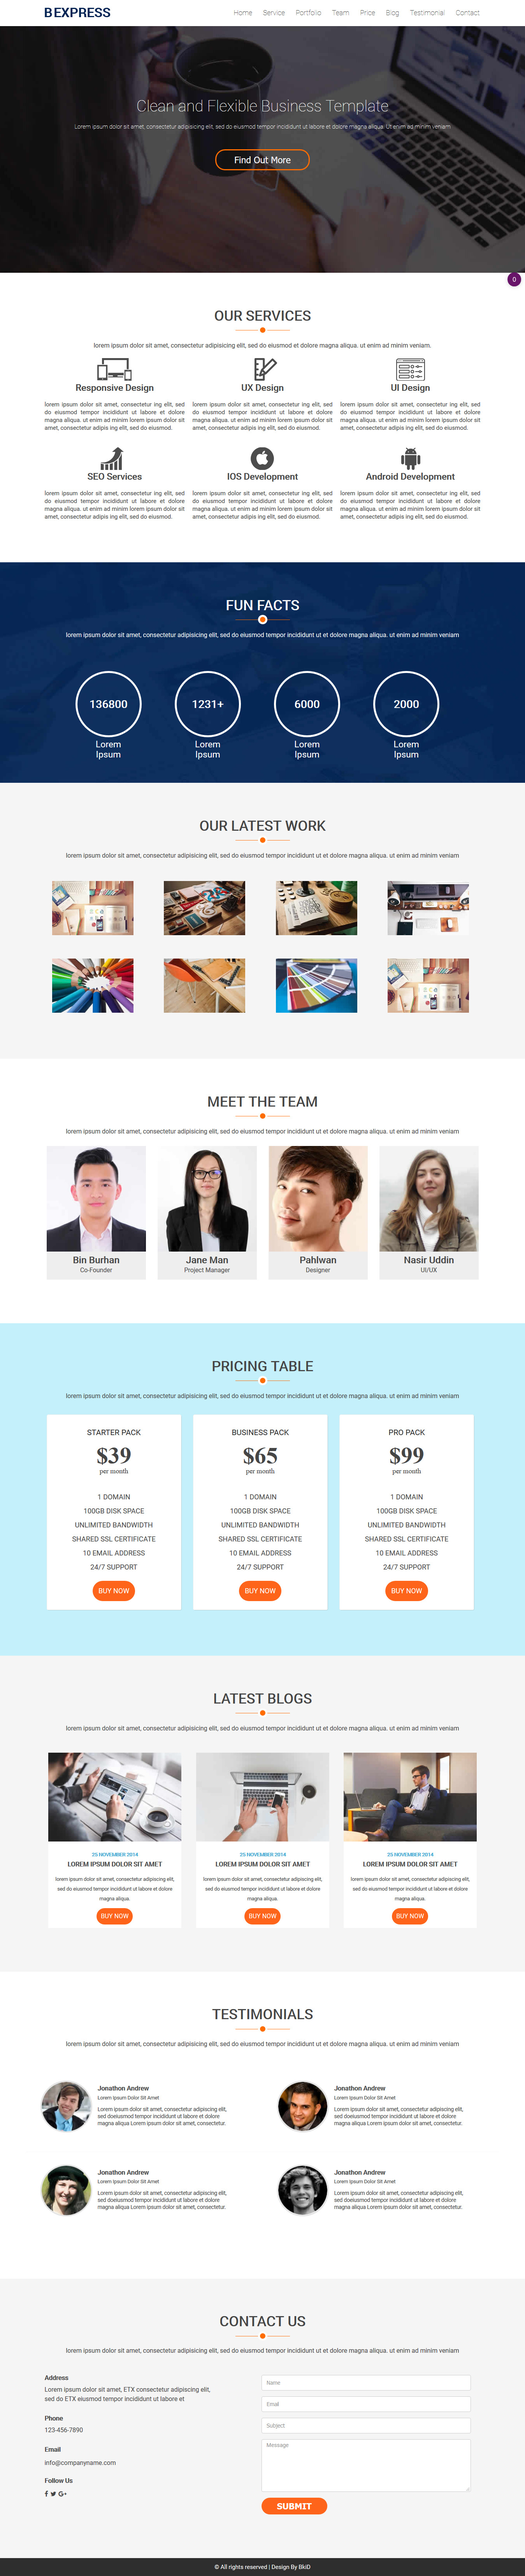
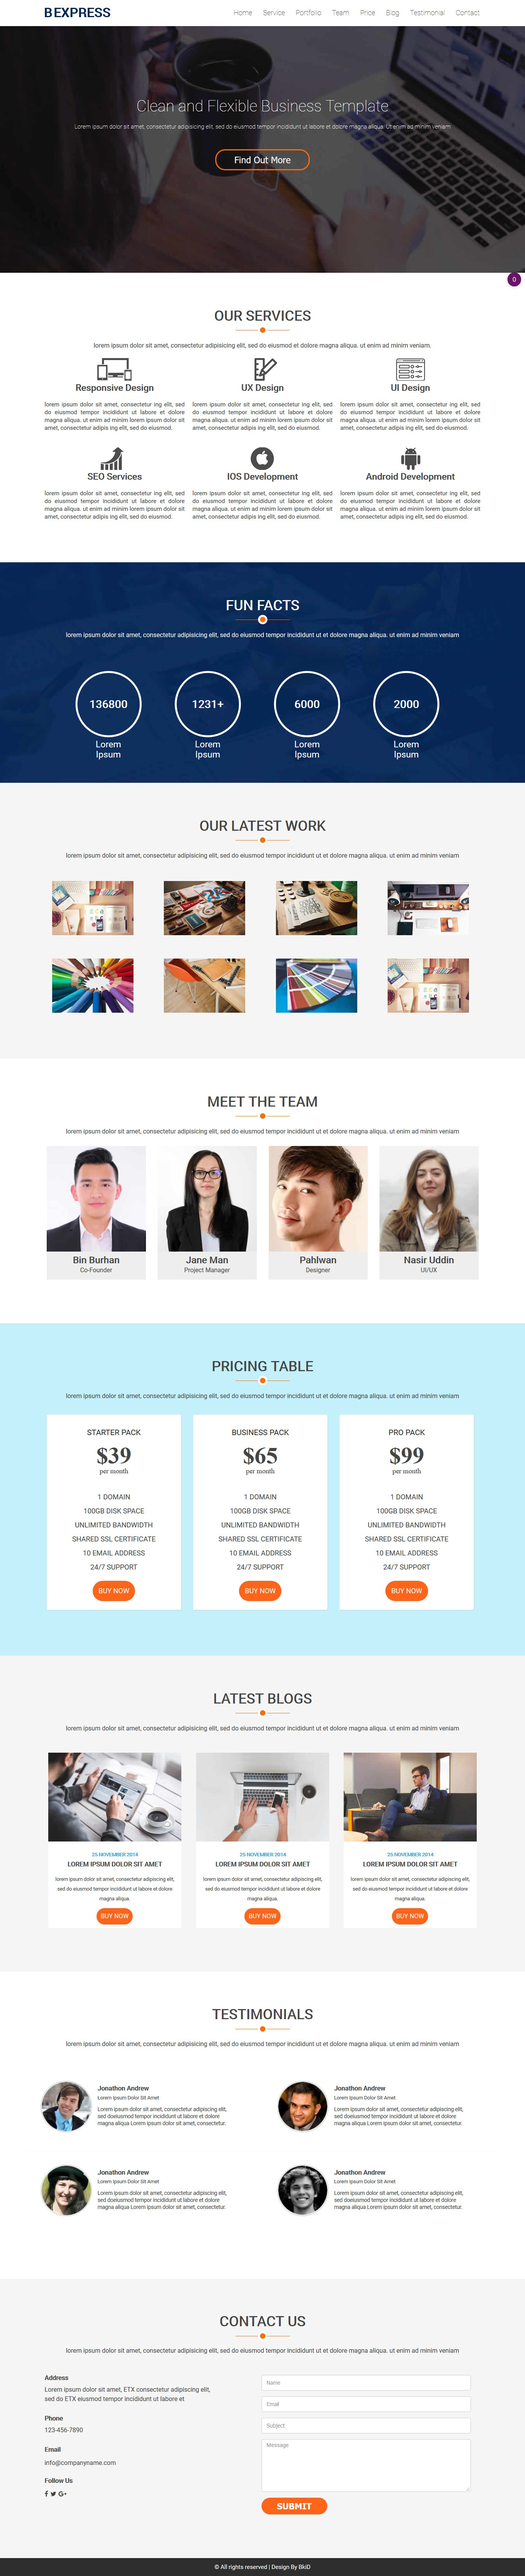
updated

diff --git a/index.html b/index.html
@@ -135,7 +135,7 @@
          });
          setInterval(function() {
             $('#home-carousel').carousel('next');
-         }, 2000000);
+         }, 2000);
          $('.sidenav').sidenav({'draggable': true});
       });
    </script>
